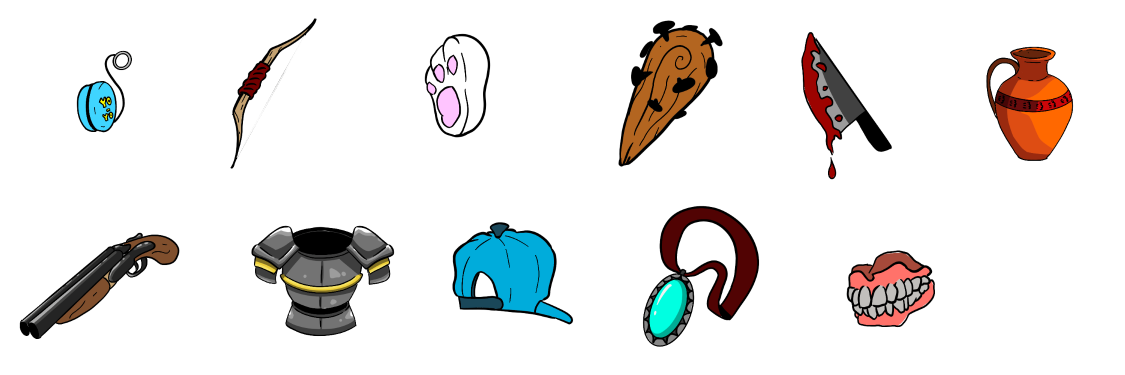
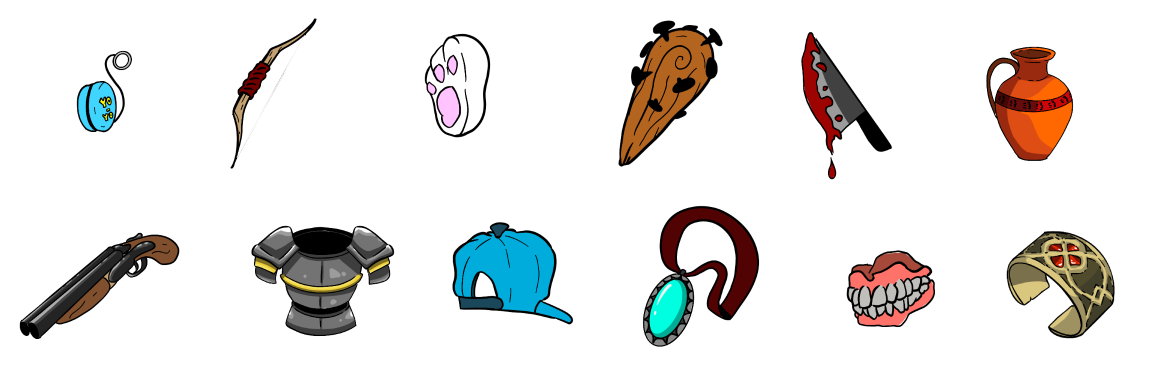
fix bug no move when scene change; added bracalet

diff --git a/Game/Source/UIModule.cpp b/Game/Source/UIModule.cpp
@@ -235,6 +235,7 @@ bool UIModule::Start()
 	talismanRect = { 595, 175, 200, 200 };
 	susjarRect = { 925, 3, 200, 200 };
 	denturesRect = { 792, 165, 200, 200 };
+	braceletRect = {960, 175, 200, 200};
 
 	//// Mini character photos
 	//timmyPicRect = { 13, 16, 142, 111 };
@@ -276,7 +277,6 @@ bool UIModule::PreUpdate()
 // Called each loop iteration
 bool UIModule::Update(float dt)
 {
-
 	// OPTIONS MENU LOGIC
 	if (fullScreenCheckBox->crossed)
 	{
@@ -312,6 +312,11 @@ bool UIModule::Update(float dt)
 	if (quitButtonBool)
 	{
 		return false;
+	}
+
+	if (app->w2_scene_maze->active)
+	{
+		std::cout << app->w2_scene_maze->player->playerState << std::endl;
 	}
 
 	return true;
@@ -589,7 +594,7 @@ bool UIModule::PostUpdate()
 	{
 		if (app->w2_scene_maze->player->isChest3Pickable)
 		{
-			app->render->DrawTexture(app->w2_scene_maze->inventoryItemsTexture, app->w2_scene_maze->player->position.x - 70, app->w2_scene_maze->player->position.y - 220, &app->uiModule->denturesRect);
+			app->render->DrawTexture(app->w2_scene_maze->inventoryItemsTexture, app->w2_scene_maze->player->position.x - 70, app->w2_scene_maze->player->position.y - 220, &app->uiModule->braceletRect);
 			app->render->DrawTexture(app->scene->eKeyTexture, app->w2_scene_maze->player->position.x + 60, app->w2_scene_maze->player->position.y - 60, NULL);
 		}
 	}
@@ -710,6 +715,10 @@ void UIModule::PrintItemImages(int i)
 		{
 			app->render->DrawTexture(app->scene->inventoryItemsTexture, -app->render->camera.x + 1195, -app->render->camera.y + 353, &denturesRect);
 		}
+		if (app->teamManager->itemstoshow.At(inventoryButtonsList.At(i)->data->id - 78)->data->name == "Hero's Bracelet")
+		{
+			app->render->DrawTexture(app->scene->inventoryItemsTexture, -app->render->camera.x + 1195, -app->render->camera.y + 353, &braceletRect);
+		}
 	}
 
 	if (app->w2_scene->active)
@@ -758,6 +767,10 @@ void UIModule::PrintItemImages(int i)
 		{
 			app->render->DrawTexture(app->w2_scene->inventoryItemsTexture, -app->render->camera.x + 1195, -app->render->camera.y + 353, &denturesRect);
 		}
+		if (app->teamManager->itemstoshow.At(inventoryButtonsList.At(i)->data->id - 78)->data->name == "Hero's Bracelet")
+		{
+			app->render->DrawTexture(app->w2_scene->inventoryItemsTexture, -app->render->camera.x + 1195, -app->render->camera.y + 353, &braceletRect);
+		}
 	}
 
 	if (app->w3_scene->active)
@@ -805,6 +818,10 @@ void UIModule::PrintItemImages(int i)
 		if (app->teamManager->itemstoshow.At(inventoryButtonsList.At(i)->data->id - 78)->data->name == "Dentures")
 		{
 			app->render->DrawTexture(app->w3_scene->inventoryItemsTexture, -app->render->camera.x + 1195, -app->render->camera.y + 353, &denturesRect);
+		}
+		if (app->teamManager->itemstoshow.At(inventoryButtonsList.At(i)->data->id - 78)->data->name == "Hero's Bracelet")
+		{
+			app->render->DrawTexture(app->w3_scene->inventoryItemsTexture, -app->render->camera.x + 1195, -app->render->camera.y + 353, &braceletRect);
 		}
 	}
 	
@@ -2009,8 +2026,41 @@ bool UIModule::ChangeButtonState(int& currentMenuType)
 
 		DisableButtonsToNone();
 
+		if (app->w2_scene_maze->active)
+		{
+			app->w2_scene_maze->player->playerPrevState = app->w2_scene_maze->player->playerState;
+			app->w2_scene_maze->player->playerState = app->w2_scene_maze->player->MOVING;
+		}
+
+		//if (app->scene->active)
+		//{
+		//	app->scene->player->playerPrevState = app->scene->player->playerState;
+		//	app->scene->player->playerState = app->scene->player->MOVING;
+		//}
+		//else if (app->w2_scene->active)
+		//{
+		//	app->w2_scene->player->playerPrevState = app->w2_scene->player->playerState;
+		//	app->w2_scene->player->playerState = app->w2_scene->player->MOVING;
+		//}
+		//else if (app->w3_scene->active)
+		//{
+		//	app->w3_scene->player->playerPrevState = app->w3_scene->player->playerState;
+		//	app->w3_scene->player->playerState = app->w3_scene->player->MOVING;
+		//}
+		//else if (app->w2_scene_maze->active)
+		//{
+		//	app->w2_scene_maze->player->playerPrevState = app->w2_scene_maze->player->playerState;
+		//	app->w2_scene_maze->player->playerState = app->w2_scene_maze->player->MOVING;
+		//}
+		//else if (app->sceneGrandma->active)
+		//{
+		//	app->sceneGrandma->player->playerPrevState = app->sceneGrandma->player->playerState;
+		//	app->sceneGrandma->player->playerState = app->sceneGrandma->player->MOVING;
+		//}
+
 		break;
 	}
+
 
 	return true;
 }

diff --git a/Game/Source/Player.cpp b/Game/Source/Player.cpp
@@ -178,6 +178,7 @@ bool Player::Start() {
 		app->LoadGameRequest();
 	}
 
+
 	triggerBunnyDialogue = false;
 	endBunnyDialogue = false;
 
@@ -222,24 +223,28 @@ bool Player::Update(float dt)
 		app->teamManager->lvlupplayerstate = false;
 	}
 
-	if (triggerBunnyDialogue && endBunnyDialogue)
+
+	if (app->scene->active)
 	{
-		lastCollision = ColliderType::UNKNOWN;
-		app->scene->dialogueTutorial = true;
+		if (triggerBunnyDialogue && endBunnyDialogue)
+		{
+			lastCollision = ColliderType::UNKNOWN;
+			app->scene->dialogueTutorial = true;
+		}
+
+		if (app->scene->basicTutorialCounter == 2 && !triggerBunnyDialogue)
+		{
+			lastCollision = ColliderType::BUNNY;
+			triggerBunnyDialogue = true;
+			npcInteractAvailable = true;
+			//playerState = NPC_INTERACT;
+			//StopVelocity();
+			app->uiModule->CleaningDialogeOverTime();
+			TriggerDialogueTree(lastCollision);
+			InteractWithEntities();
+		}
 	}
 
-	if (app->scene->basicTutorialCounter == 2 && !triggerBunnyDialogue)
-	{
-		lastCollision = ColliderType::BUNNY;
-		triggerBunnyDialogue = true;
-		npcInteractAvailable = true;
-		//playerState = NPC_INTERACT;
-		//StopVelocity();
-		app->uiModule->CleaningDialogeOverTime();
-		TriggerDialogueTree(lastCollision);
-		InteractWithEntities();
-		
-	}
 
 	
 
@@ -296,7 +301,7 @@ bool Player::Update(float dt)
 		{
 			if (isChest3Pickable)
 			{
-				app->teamManager->dentures.ininventory = true;
+				app->teamManager->bracelet.ininventory = true;
 				app->w2_scene_maze->chest3->isPicked = true;
 				app->teamManager->loadinventory();
 			}
@@ -318,7 +323,7 @@ bool Player::Update(float dt)
 			}
 			if (isChest6Pickable)
 			{
-				app->teamManager->bracelet.ininventory = true;
+				app->teamManager->dentures.ininventory = true;
 				app->w2_scene->chest6->isPicked = true;
 				app->teamManager->loadinventory();
 			}
@@ -958,6 +963,7 @@ void Player::InteractWithEntities()
 			// Moving
 			else
 			{
+				
 				playerPrevState = playerState;
 				playerState = NPC_INTERACT;
 				StopVelocity();

diff --git a/Game/Source/W2_Scene_Maze.cpp b/Game/Source/W2_Scene_Maze.cpp
@@ -113,6 +113,8 @@ bool W2_Scene_Maze::Start()
 	// Call this function only when buttons change
 	app->uiModule->ChangeButtonState(app->uiModule->currentMenuType);
 
+
+
 	godMode = false;
 
 	app->audio->PlayMusic("Assets/Sounds/Music/music_maze.ogg", 0.1f);
@@ -143,6 +145,12 @@ bool W2_Scene_Maze::Start()
 
 	ParticleSystem* particlesystem_chest3 = new ParticleSystem(particle_chest3);
 	app->moduleParticles->emiters.push_back(particlesystem_chest3);
+
+	//player->npcInteractAvailable = false;
+	//player->itemInteractAvailable = false;
+	//player->movementRestringed = false;
+	//player->playerState = player->PlayerState::MOVING;
+	//player->playerPrevState = player->PlayerState::MOVING;
 
 	return true;
 }
